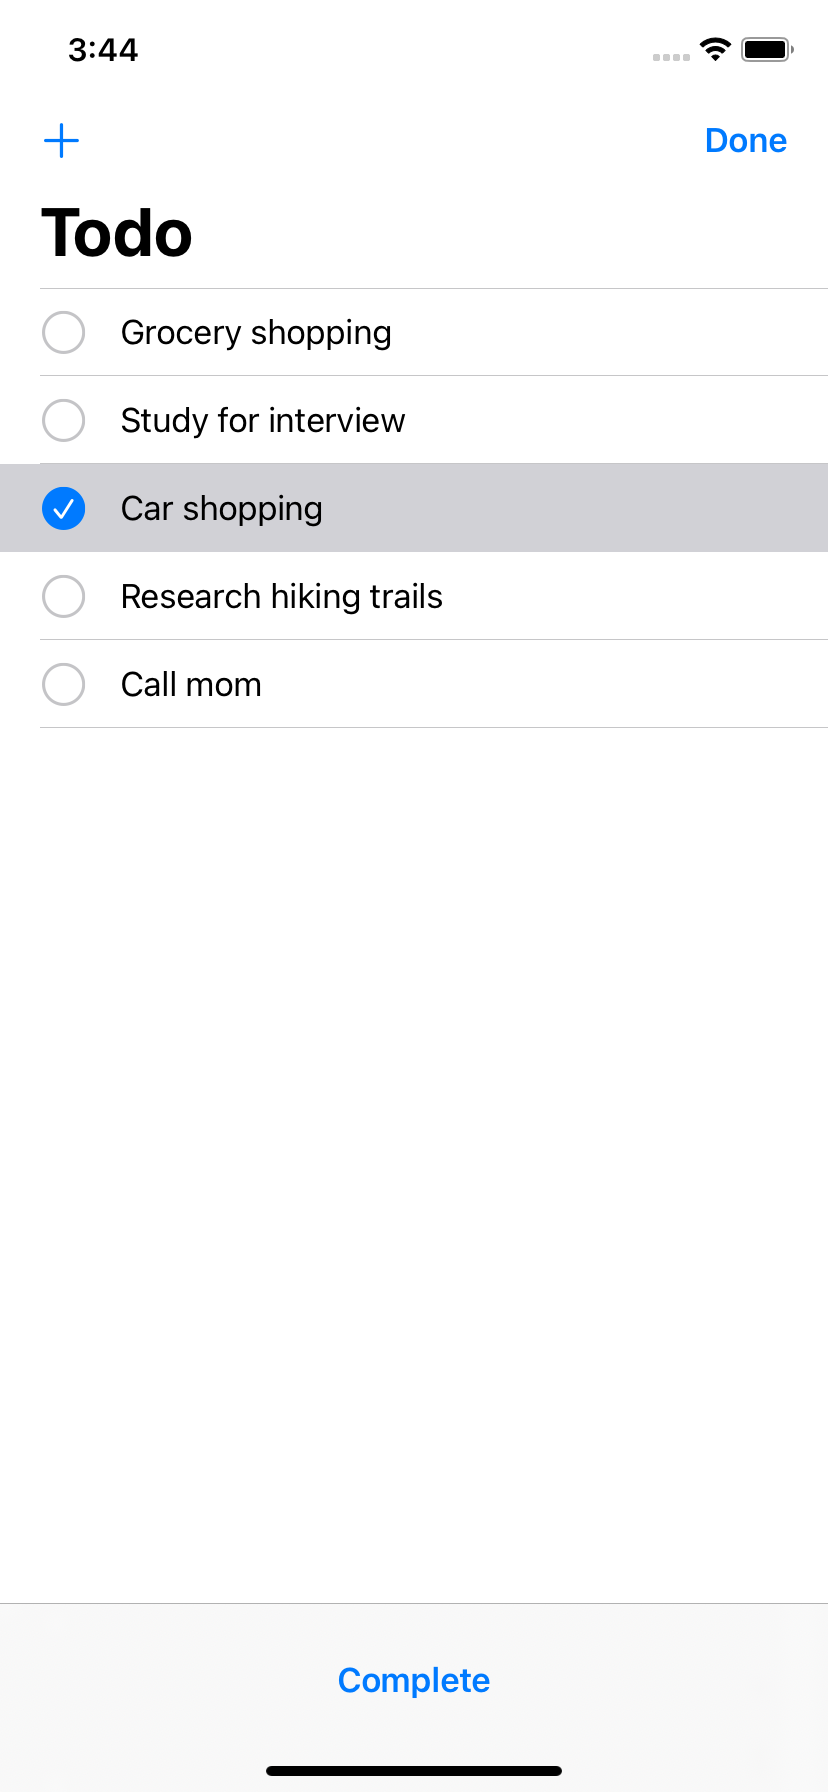
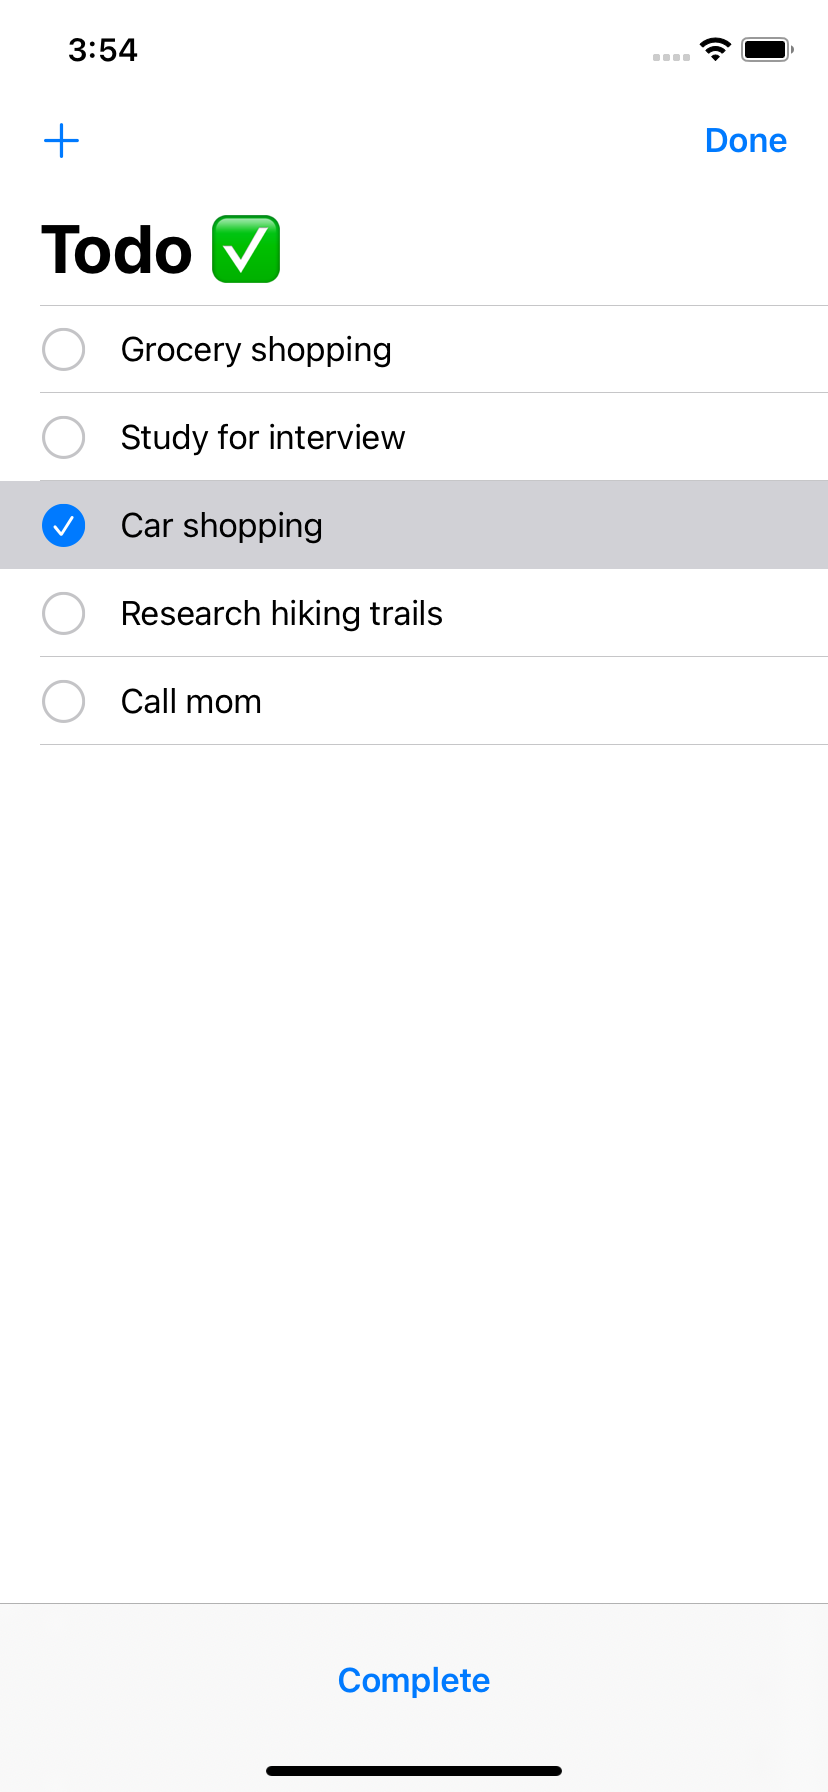
Update app title and screenshot

Changed region(s): [[0.0, 0.0938, 1.0, 0.4062], [0.1208, 0.0, 0.151, 0.0312]]

diff --git a/iOS/Todo/ViewControllers/TodoList/TodoListViewController.swift b/iOS/Todo/ViewControllers/TodoList/TodoListViewController.swift
@@ -31,7 +31,7 @@ final class TodoListViewController: UIViewController {
         super.viewDidLoad()
         self.navigationController?.navigationBar.prefersLargeTitles = true
         self.navigationItem.largeTitleDisplayMode = .always
-        self.navigationItem.title = NSLocalizedString("Todo", comment: "")
+        self.navigationItem.title = NSLocalizedString("Todo ✅", comment: "")
         
         self.view.addSubview(self.contentView)
         self.contentView.translatesAutoresizingMaskIntoConstraints = false
